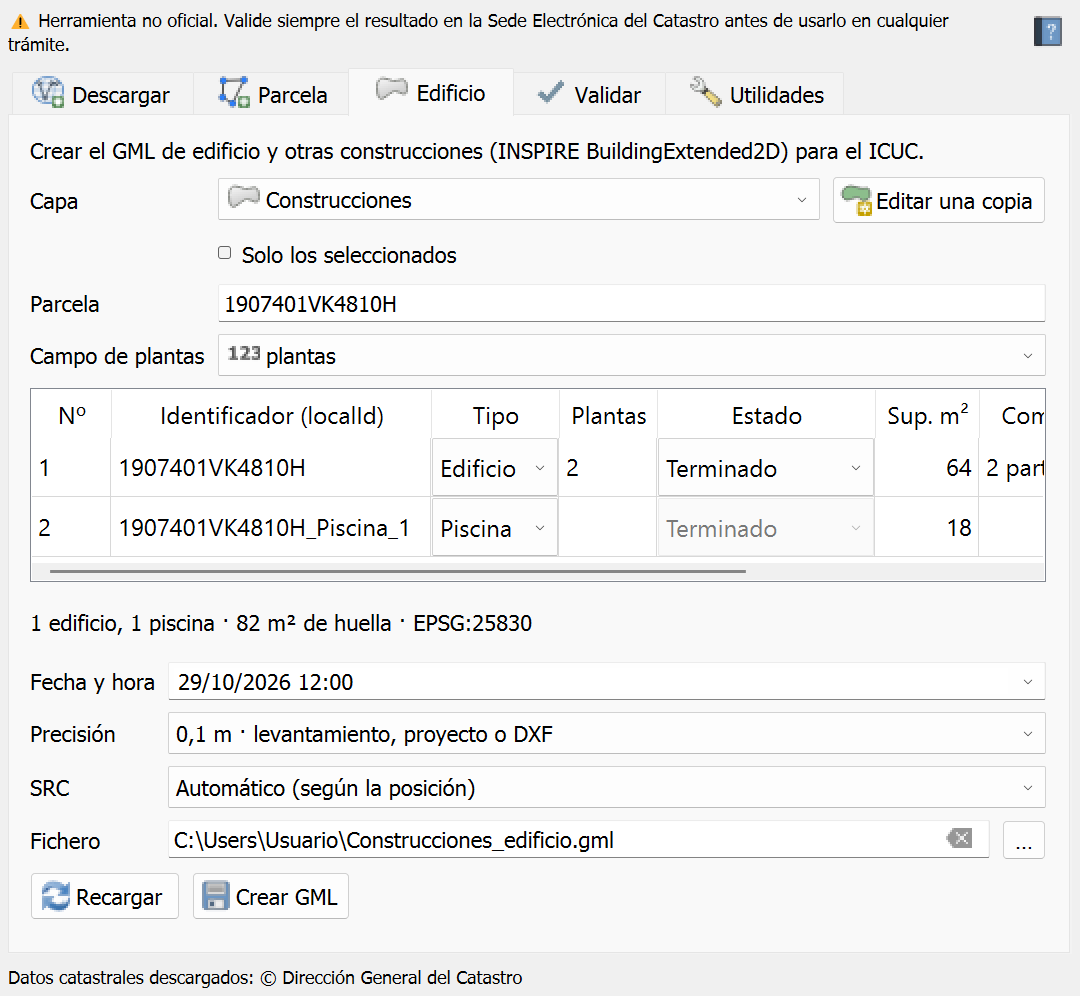
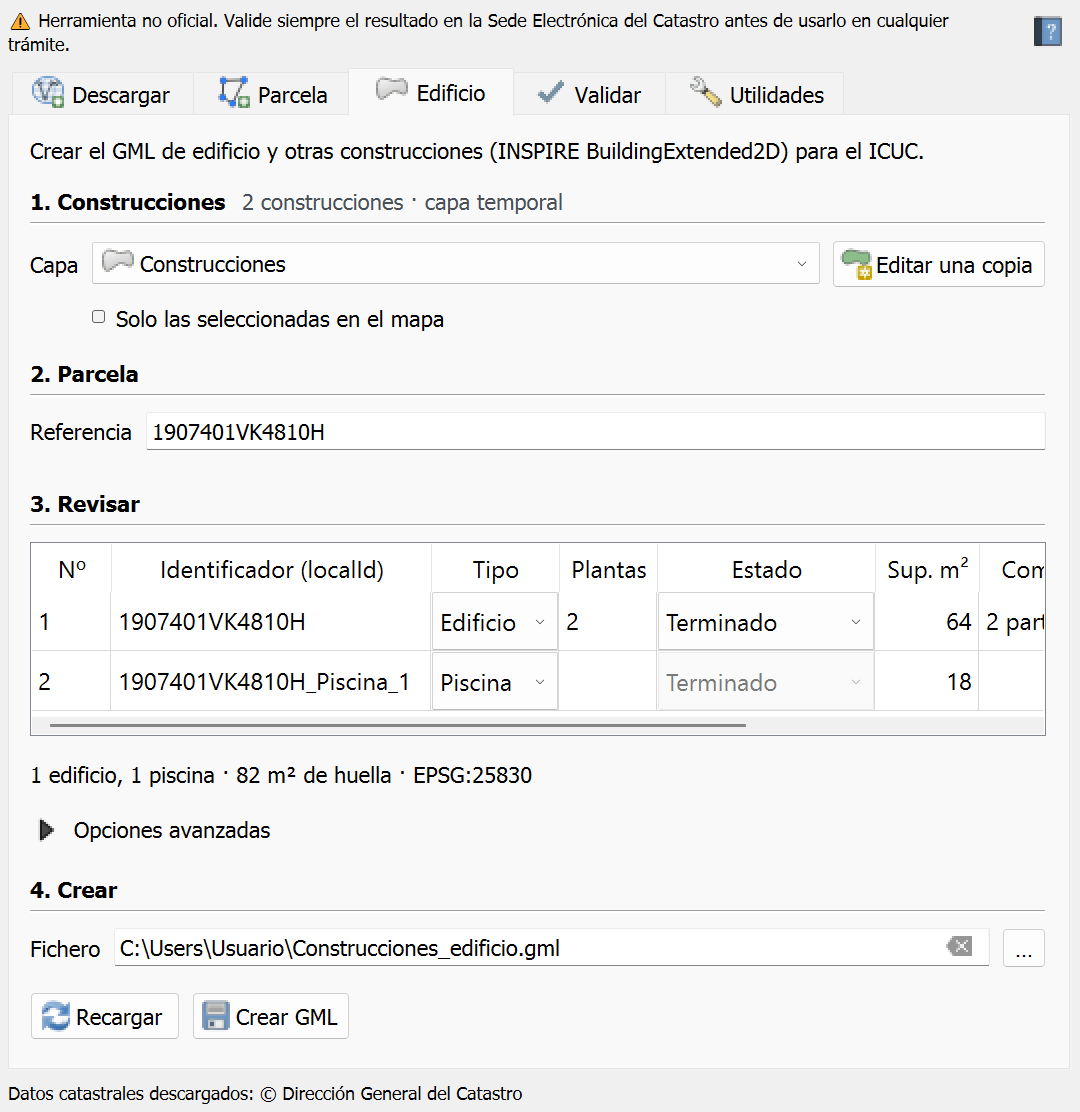
Usabilidad: pestaña Edificio por pasos (U-08) y fin de la revisión de usabilidad
1. Construcciones (con recuento, capa temporal y cambios sin guardar), 2. Parcela, 3. Revisar, 4. Crear; campo de plantas, fecha, precisión y SRC en Opciones avanzadas plegadas. U-09 confirmado. Captura de Edificio rehecha.

Claude-Session: https://claude.ai/code/session_01KsmgE6bxdpbGHsdP3uadVg

diff --git a/help/index.html b/help/index.html
@@ -180,9 +180,10 @@ gráficas» de la Sede Electrónica del Catastro (el plugin no envía nada: el f
 
 <h2 id="edificio">Crear el GML de edificio (ICUC)</h2>
 <p>El GML de edificio sirve para el Informe Catastral de Ubicación de las Construcciones (ICUC). En la pestaña
-<strong>Edificio</strong> elija la capa con la <strong>huella</strong> de cada construcción (el contorno a nivel del suelo,
+<strong>Edificio</strong>, que va por pasos como Parcela (1. Construcciones, 2. Parcela, 3. Revisar, 4. Crear), elija
+la capa con la <strong>huella</strong> de cada construcción (el contorno a nivel del suelo,
 sin vuelos, terrazas ni balcones). Tras descargar una parcela con sus construcciones, la capa «Construcciones» pasa sola a
-esta pestaña. Escriba la referencia catastral de la parcela (o, si aún no existe, su identificador en la escritura): los
+esta pestaña. En «2. Parcela» escriba la referencia catastral de la parcela (o, si aún no existe, su identificador en la escritura): los
 identificadores se proponen como pide la Dirección General del Catastro, la referencia si hay un solo edificio y
 <code>RC_Edificio_1</code>, <code>RC_Edificio_2</code>… si hay varios; las piscinas, <code>RC_Piscina_1</code>…</p>
 <figure><img src="img/edificio.png" class="panel" alt="Pestaña Edificio con las construcciones de la parcela descargada."><figcaption>Pestaña Edificio con las construcciones de la parcela descargada.</figcaption></figure>
@@ -201,13 +202,16 @@ plantas. La tabla se actualiza sola. No elija la capa de la parcela: sus polígo
   es una huella; las abiertas (cotas, ejes…) no se usan y se avisa de cuántas hay. Si la capa de dibujo se llama algo
   como «PISCINA», esas huellas se proponen como piscinas. Un DXF no guarda el SRC: si QGIS lo abre en uno que no encaja
   con las coordenadas, el panel lo avisa y hay que asignarle el correcto (p. ej. EPSG:25830) en sus propiedades. Para
-  quedarse solo con algunas líneas, selecciónelas y marque «Solo los seleccionados», o pulse
+  quedarse solo con algunas líneas, selecciónelas y marque «Solo las seleccionadas», o pulse
   <strong>Editar una copia</strong>.</li>
 </ul>
 <p>En la tabla puede cambiar el <strong>tipo</strong> (edificio o piscina), las <strong>plantas sobre rasante</strong> (la
 máxima si varía; son obligatorias en los edificios) y el identificador. Un edificio puede tener varias partes (toda su huella); cada piscina, una sola.
 Cada edificio lleva su <strong>estado</strong> en la tabla (terminado, en construcción, proyectado…; las piscinas no lo
-llevan). Elija la fecha, el SRC y el fichero, y pulse <strong>Crear GML</strong>. El fichero se escribe en ISO-8859-1, como el ejemplo oficial.</p>
+llevan). En «4. Crear» elija el fichero y pulse <strong>Crear GML</strong>. El campo de plantas de la capa, la fecha, la
+<strong>precisión</strong> de las huellas (0,1 m si salen de un levantamiento, del proyecto o de un DXF; 10 m si se han
+medido sobre la ortofoto) y el SRC están en <strong>Opciones avanzadas</strong>, plegadas: casi siempre valen los
+automáticos. El fichero se escribe en ISO-8859-1, como el ejemplo oficial.</p>
 <p>Con el botón <strong>Validar</strong> del resultado se abre en la pestaña Validar. Allí, <strong>Comparar con el
 Catastro</strong> sitúa cada construcción respecto a la parcela catastral vigente, como el ICUC: entera dentro (informe
 positivo), en parte fuera (informe negativo: el ICUC exige que esté «en su integridad» dentro de la parcela, sin

diff --git a/gui/pestana_edificio.py b/gui/pestana_edificio.py
@@ -2,8 +2,9 @@
 Pestaña «Edificio»: crea el GML de edificio (modelo simplificado de la DGC: edificios y piscinas) para el Informe
 Catastral de Ubicación de las Construcciones (ICUC), a partir de una capa con las huellas.
 
-Flujo: capa (dibujada o la «Construcciones» descargada) → referencia de la parcela → tabla con una fila por
-construcción (tipo y plantas) → estado, fecha, SRC y fichero → Crear GML. Los identificadores se proponen según el
+Por pasos (USABILIDAD U-08): 1. Construcciones (la capa dibujada o la «Construcciones» descargada) → 2. Parcela (su
+referencia) → 3. Revisar (tabla con una fila por construcción: tipo, plantas y estado) → 4. Crear (fichero); el campo de
+plantas, la fecha, la precisión y el SRC, en «Opciones avanzadas». Los identificadores se proponen según el
 formato de la DGC (RC, RC_Edificio_N, RC_Piscina_N) y se pueden cambiar en la tabla.
 
 copyright : (C) 2026 by Francisco Gómez Losada
@@ -14,7 +15,7 @@ import os
 import re
 
 from qgis.core import Qgis, QgsApplication, QgsCoordinateReferenceSystem, QgsProject
-from qgis.gui import QgsFieldComboBox, QgsFileWidget, QgsMapLayerComboBox
+from qgis.gui import QgsCollapsibleGroupBox, QgsFieldComboBox, QgsFileWidget, QgsMapLayerComboBox
 from qgis.PyQt import sip
 from qgis.PyQt.QtCore import QDateTime, Qt, QTime, QTimer
 from qgis.PyQt.QtWidgets import (
@@ -70,8 +71,15 @@ class PestanaEdificio(QWidget):
     # ------------------------------------------------------------------ Interfaz
 
     def construir(self):
+        """
+        Por pasos, como Parcela (USABILIDAD U-08): 1. Construcciones (capa o «Dibujar huellas») → 2. Parcela (su
+        referencia) → 3. Revisar (tabla) → 4. Crear; el campo de plantas, la fecha, la precisión y el SRC, en «Opciones
+        avanzadas», plegadas.
+        """
         principal = QVBoxLayout(self)
         principal.setContentsMargins(0, 0, 0, 0)
+        self.paso1 = desplazable.TituloPaso(1, "Construcciones", self)
+        principal.addWidget(self.paso1)
         formulario = QFormLayout()
 
         self.capaCombo = QgsMapLayerComboBox(self)
@@ -90,23 +98,22 @@ class PestanaEdificio(QWidget):
         fila_capa.addWidget(self.nuevaBoton)
         formulario.addRow("Capa", fila_capa)
 
-        self.soloSeleccion = QCheckBox("Solo los seleccionados", self)
-        self.soloSeleccion.setToolTip("Solo los elementos seleccionados en el mapa (o en la tabla de atributos) de la capa")
+        self.soloSeleccion = QCheckBox("Solo las seleccionadas en el mapa", self)
+        self.soloSeleccion.setToolTip("Solo las construcciones seleccionadas en el mapa (o en la tabla de atributos) de la capa")
         formulario.addRow("", self.soloSeleccion)
+        principal.addLayout(formulario)
 
+        principal.addWidget(desplazable.TituloPaso(2, "Parcela", self))
+        parcela = QFormLayout()
         self.referencia = QLineEdit(self)
         self.referencia.setPlaceholderText("Referencia catastral de la parcela (14 caracteres)")
         self.referencia.setToolTip("Referencia de la parcela donde están las construcciones: es la base de los "
                                    "identificadores (RC, RC_Edificio_1, RC_Piscina_1…).\nSi la parcela aún no existe en el "
                                    "Catastro, el identificador que tenga en la escritura")
-        formulario.addRow("Parcela", self.referencia)
+        parcela.addRow("Referencia", self.referencia)
+        principal.addLayout(parcela)
 
-        self.campoPlantas = QgsFieldComboBox(self)
-        self.campoPlantas.setAllowEmptyFieldName(True)
-        self.campoPlantas.setToolTip("Campo con el número de plantas sobre rasante (opcional; se puede escribir en la tabla)")
-        formulario.addRow("Campo de plantas", self.campoPlantas)
-        principal.addLayout(formulario)
-
+        principal.addWidget(desplazable.TituloPaso(3, "Revisar", self))
         self.tabla = desplazable.TablaFlexible(0, len(CABECERAS), self)
         self.tabla.setHorizontalHeaderLabels(CABECERAS)
         self.tabla.verticalHeader().setVisible(False)
@@ -125,7 +132,16 @@ class PestanaEdificio(QWidget):
         self.resumen.setWordWrap(True)
         principal.addWidget(self.resumen)
 
-        salida = QFormLayout()
+        #Opciones avanzadas (plegadas): casi siempre valen las automáticas
+        self.avanzadas = QgsCollapsibleGroupBox("Opciones avanzadas", self)
+        self.avanzadas.setSaveCollapsedState(False)
+        self.avanzadas.setToolTip("Campo de plantas, fecha y hora, precisión de las huellas y SRC del GML: casi siempre "
+                                  "valen los automáticos")
+        salida = QFormLayout(self.avanzadas)
+        self.campoPlantas = QgsFieldComboBox(self)
+        self.campoPlantas.setAllowEmptyFieldName(True)
+        self.campoPlantas.setToolTip("Campo con el número de plantas sobre rasante (opcional; se puede escribir en la tabla)")
+        salida.addRow("Campo de plantas", self.campoPlantas)
 
         ahora = QDateTime.currentDateTime()
         ahora.setTime(QTime(ahora.time().hour(), ahora.time().minute()))
@@ -148,7 +164,11 @@ class PestanaEdificio(QWidget):
                              (32628, 'WGS84 / UTM 28N (Canarias)')):
             self.srcCombo.addItem(f"EPSG:{epsg} · {nombre}", epsg)
         salida.addRow("SRC", self.srcCombo)
+        self.avanzadas.setCollapsed(True)
+        principal.addWidget(self.avanzadas)
 
+        principal.addWidget(desplazable.TituloPaso(4, "Crear", self))
+        salida = QFormLayout()
         self.destino = QgsFileWidget(self)
         self.destino.setStorageMode(QgsFileWidget.StorageMode.SaveFile)
         self.destino.setFilter("GML (*.gml)")
@@ -237,7 +257,36 @@ class PestanaEdificio(QWidget):
     def senales(self, capa):
         return [(capa.selectionChanged, self.seleccion_cambiada), (capa.featureAdded, self.capa_editada),
                 (capa.featuresDeleted, self.capa_editada), (capa.attributeValueChanged, self.capa_editada),
-                (capa.geometryChanged, self.capa_editada), (capa.afterRollBack, self.capa_editada)]
+                (capa.geometryChanged, self.capa_editada), (capa.afterRollBack, self.capa_editada),
+                (capa.afterCommitChanges, self.capa_editada), (capa.layerModified, self.capa_modificada)]
+
+    def capa_modificada(self, *args):
+        if not sip.isdeleted(self):
+            self.actualizar_paso1()
+
+    def actualizar_paso1(self):
+        """Junto a «1. Construcciones»: cuántas, si la capa es temporal y si tiene cambios sin guardar (U-04, U-08)."""
+        capa = self.capa()
+        if capa is None:
+            self.paso1.poner_estado("elija la capa o pulse «Dibujar huellas»", '#495057')
+            self.paso1.estado.setToolTip('')
+            return
+        total, sel = capa.featureCount(), capa.selectedFeatureCount()
+        if self.soloSeleccion.isChecked():
+            self.paso1.poner_estado(f"{miles(sel)} de {miles(total)} seleccionada{'' if sel == 1 else 's'}")
+        else:
+            self.paso1.poner_estado(f"{miles(len(self.filas))} construcci{'ón' if len(self.filas) == 1 else 'ones'}",
+                                    '#495057')
+        texto, ayuda = self.paso1.estado.text(), []
+        if capa.providerType() == 'memory':
+            texto += " <span style='color:#495057'>· capa temporal</span>"
+            ayuda.append("Capa temporal (en memoria): se pierde al cerrar QGIS si no la guarda. El GML que se sube a la "
+                         "Sede es el fichero que cree en «4. Crear», no esta capa")
+        if capa.isModified():
+            texto += " <span style='color:#e67700'>· con cambios sin guardar</span>"
+            ayuda.append("La capa está en edición con cambios sin guardar, y el GML los incluye")
+        self.paso1.estado.setText(texto)
+        self.paso1.estado.setToolTip("\n".join(ayuda))
 
     def capa_editada(self, *args):
         """Al editar la capa (dibujar, mover vértices…) se recarga la tabla conservando lo escrito en ella (AU-17)."""
@@ -254,8 +303,12 @@ class PestanaEdificio(QWidget):
         return valores
 
     def seleccion_cambiada(self, *args):
-        if not sip.isdeleted(self) and self.soloSeleccion.isChecked():
+        if sip.isdeleted(self):
+            return
+        if self.soloSeleccion.isChecked():
             self.recargar()
+        else:
+            self.actualizar_paso1()
 
     def recargar(self, *args, conservar=False):
         anteriores = self.valores_tabla() if conservar else {}
@@ -324,6 +377,7 @@ class PestanaEdificio(QWidget):
         self.tabla.resizeColumnsToContents()
         self.tabla.setColumnWidth(COL_ID, max(self.tabla.columnWidth(COL_ID), 160))
         self.actualizar_superficies()
+        self.actualizar_paso1()
 
     def tipo_fila(self, i):
         combo = self.tabla.cellWidget(i, COL_TIPO)
@@ -380,7 +434,7 @@ class PestanaEdificio(QWidget):
                          "la capa «Construcciones» de la descarga o pulse «Dibujar huellas».</span>")
             elif self.demasiadas:
                 texto = (f"<i>Demasiadas construcciones: seleccione en el mapa las de la parcela (máximo {MAX_FILAS}) y "
-                         "marque «Solo los seleccionados».</i>")
+                         "marque «Solo las seleccionadas».</i>")
             else:
                 texto = ("<i>La capa no tiene polígonos (o no hay ninguno seleccionado). Dibuje la huella de cada "
                          "construcción con la herramienta de añadir polígono.</i>")

diff --git a/core/geometria.py b/core/geometria.py
@@ -178,8 +178,7 @@ def preparar(geometria, elemento='', area_entera=True):
                                                  "SRC de la capa (revíselo en sus propiedades, pestaña Fuente)", elemento)]
     if geometria.isNull() or geometria.isEmpty():
         return [], [Incidencia(ERROR, 'GEO-VACIA', "No tiene geometría (un elemento vacío de la capa): bórrelo, o "
-                                                   "seleccione los demás y marque «Solo las seleccionadas» (en Edificio, «Solo los "
-                                                   "seleccionados»)",
+                                                   "seleccione los demás y marque «Solo las seleccionadas»",
                                elemento)]
     if not finita(geometria):
         return [], [Incidencia(ERROR, 'GEO-SRC', "Coordenadas no válidas (infinitas): revise el SRC de la capa", elemento)]

diff --git a/docs/USABILIDAD.md b/docs/USABILIDAD.md
@@ -1,4 +1,4 @@
-# Revisión de usabilidad (en curso)
+# Revisión de usabilidad (hecha el 29/10/2026; se reabre con lo que salga en las pruebas a mano)
 
 Lista de lo que confunde o complica el uso, recogida en las pruebas a mano. Se resolverá en la **fase de revisión de
 usabilidad**, cuando estén terminadas todas las funciones y el manual con capturas reales: así se puede reorganizar el
@@ -13,5 +13,5 @@ panel de una vez, viéndolo entero, en lugar de parchearlo pieza a pieza.
 | U-05 | Validar | Textos largos en la lista de incidencias | Texto corto en la lista y explicación completa al pasar el ratón o en el informe — ✅ 27/10/2026: las de más de 150 caracteres acaban en «… ▸» y se leen enteras al elegirlas o al pasar el ratón; la identidad gráfica empieza por el veredicto |
 | U-06 | Descargar | Los grupos «Catastro <RC>» se acumulan en el proyecto | Opción de sustituir la descarga anterior o agrupar todas bajo «Catastral GML Tools» — ✅ 27/10/2026: todas dentro de «Descargas del Catastro», la última arriba y abierta, las anteriores plegadas (repetir una referencia sigue sustituyendo su grupo) |
 | U-07 | General | No hay un recorrido guiado del trabajo habitual (descargar → dividir o unir → crear GML → validar → Sede) | Sección «Flujo de trabajo» al principio del manual y, quizá, en la cabecera del panel — ✅ 28/10/2026: la ayuda empieza por «Flujo de trabajo: de la referencia catastral a la Sede» (tabla de cinco pasos con la pestaña, qué hacer, el botón que lleva al siguiente y enlaces a cada sección); cada mensaje final ya llevaba el botón del paso siguiente y Validar, sin errores y con el XSD comprobado, añade «Abrir la Sede» (página de Validaciones gráficas). Sin línea fija en la cabecera: con los botones de cada mensaje basta y no resta sitio |
-| U-08 | Edificio | La pestaña admitía cualquier capa de polígonos (se eligió la de la parcela como si fuera la huella) y, si la parcela no tiene construcciones en el Catastro, no quedaba claro qué hacer | Parche del 09/10/2026: se rechazan las capas de parcelas y el botón «Dibujar huellas» crea la capa y activa el dibujo. En la revisión: quizá un asistente «1 parcela → 2 huellas → 3 crear» |
-| U-09 | General | Seis pestañas en un panel estrecho; «Dividir» como pestaña aparte, lejos de «Unir seleccionadas» | **Decidido el 14/10/2026 (provisional, se revisará al probarlo):** Dividir pasa a la pestaña Parcela, junto a «Unir seleccionadas», en un bloque plegable «Dividir la parcela seleccionada» que alimenta el asistente (segregación o división, nombres y matriz). Pestañas en el orden del trabajo: Descargar → Parcela → Edificio → Validar → Utilidades. No va a Utilidades porque allí se trabaja con ficheros GML ya hechos y la división es un paso del trabajo principal |
+| U-08 | Edificio | La pestaña admitía cualquier capa de polígonos (se eligió la de la parcela como si fuera la huella) y, si la parcela no tiene construcciones en el Catastro, no quedaba claro qué hacer | Parche del 09/10/2026: se rechazan las capas de parcelas y el botón «Dibujar huellas» crea la capa y activa el dibujo. En la revisión: quizá un asistente «1 parcela → 2 huellas → 3 crear» — ✅ 29/10/2026: por pasos como Parcela (1. Construcciones con «Dibujar huellas» y el recuento junto al título, 2. Parcela, 3. Revisar, 4. Crear) y opciones avanzadas plegadas (campo de plantas, fecha, precisión, SRC) |
+| U-09 | General | Seis pestañas en un panel estrecho; «Dividir» como pestaña aparte, lejos de «Unir seleccionadas» | **Decidido el 14/10/2026 (provisional, se revisará al probarlo):** Dividir pasa a la pestaña Parcela, junto a «Unir seleccionadas», en un bloque plegable «Dividir la parcela seleccionada» que alimenta el asistente (segregación o división, nombres y matriz). Pestañas en el orden del trabajo: Descargar → Parcela → Edificio → Validar → Utilidades. No va a Utilidades porque allí se trabaja con ficheros GML ya hechos y la división es un paso del trabajo principal — ✅ 29/10/2026: confirmado tras las pruebas a mano: cinco pestañas en el orden del trabajo; «Dividir parcela» junto a «Unir parcelas» en el paso 2 de Parcela |

diff --git a/CHANGELOG.md b/CHANGELOG.md
@@ -18,6 +18,8 @@ Formato basado en [Keep a Changelog](https://keepachangelog.com/es-ES/1.1.0/). V
   - U-04: **capas temporales frente al fichero GML**. Junto a «1. Parcelas» se dice si la capa es temporal («capa temporal», en memoria) o la vista de un GML de Validar («vista de fichero.gml»), con la explicación al pasar el ratón (el GML de la Sede es el fichero de «4. Crear»), y en naranja «con cambios sin guardar» mientras tenga ediciones sin guardar, que el GML incluye (prueba a mano del 28/10/2026: una unión de una prueba anterior acabó en el GML). El grupo de las descargas se llama «Descargas del Catastro (temporales)» (el de un proyecto guardado con el nombre anterior se renombra). La ayuda lo explica en «Descargar una parcela»;
   - los mensajes finales (fondo verde) usan todo el ancho de la barra: el icono dejaba un hueco a su izquierda y el texto y los botones quedaban apretados a la derecha (prueba a mano del 29/10/2026);
   - capturas de la ayuda a doble resolución y ajustadas a lo que importa: las tablas y listas, al alto de sus filas, sin los cuadros en blanco; el panel se ve algo más grande que en QGIS (680 px de ancho) para que se lea, y en los mapas los rótulos tienen su tamaño normal (salían diminutos) (pruebas a mano del 29/10/2026);
+  - U-08: la pestaña **Edificio por pasos**, como Parcela: «1. Construcciones» (capa o «Dibujar huellas», con el recuento, «capa temporal» y «con cambios sin guardar» junto al título) → «2. Parcela» (referencia) → «3. Revisar» (tabla) → «4. Crear» (fichero); el campo de plantas, la fecha, la precisión y el SRC, en «Opciones avanzadas» plegadas. «Solo las seleccionadas en el mapa», como en Parcela. Casos en `parcela_pasos_test.py`;
+  - U-09: queda resuelto con lo hecho (cinco pestañas en el orden del trabajo y «Dividir parcela» dentro de Parcela, junto a «Unir parcelas»);
   - con un GML igual al Catastro, la barra de Validar dice «2 avisos · igual al Catastro vigente» en vez de «2 avisos · ninguna», que no se entendía (prueba a mano del 28/10/2026).
   - las capas «Identidad gráfica» del mapa llevan atributos (parcela catastral, cartografía, margen, separación máxima, superficies, diferencia, si cumpliría y la nota de simulación no oficial; en «fuera del margen», tramos, longitud y el punto que más se separa): se entienden al consultarlas con «Identificar objetos» y se guardan con sus datos (probado en GeoPackage).
 - **Panel más limpio** (prueba a mano del 27/10/2026):

diff --git a/docs/PLAN_PRUEBAS.md b/docs/PLAN_PRUEBAS.md
@@ -39,7 +39,7 @@ Cada batería recorre las categorías que le apliquen:
 | Validar: comparación con el Catastro | `comparacion_casos_test.py` (44 casos) | ✅ 19/10/2026: una RC inexistente en un GML de edificio decía «no se ha podido comparar»; si la red caía a mitad, una referencia se daba por inexistente; con geometría inválida, GEOS fallaba por dentro |
 | Parcela: crear GML desde una capa y asistente de alteraciones | `parcela_casos_test.py` (25 capas + interacción) | ✅ 19/10/2026: quitar la capa en uso pasaba a otra sin avisar; mensajes de astilla y de elemento sin geometría que no se entendían; más de 30 parcelas sin aviso al crear |
 | Parcela: dividir y unir seleccionadas | `division_casos_test.py` (9 formas × modos × valores × lados: 1404 divisiones; unión con rendijas, huecos y patios) | ✅ 19/10/2026 |
-| Parcela por pasos (U-01/U-02): pasos, opciones avanzadas, «Unir parcelas» y «Dividir parcela ▸», solo las seleccionadas | `parcela_pasos_test.py` (8 casos) | ✅ 28/10/2026 |
+| Parcela y Edificio por pasos (U-01/U-02/U-04/U-08): pasos, opciones avanzadas, «Unir parcelas» y «Dividir parcela ▸», solo las seleccionadas, capa temporal, vista del GML y cambios sin guardar | `parcela_pasos_test.py` (11 casos) | ✅ 29/10/2026 |
 | Edificio: GML de construcciones (ICUC) | `edificio_casos_test.py` (20 capas + sin referencia) | ✅ 19/10/2026 |
 | Descargar: por referencia y en el mapa | `descargar_casos_test.py` (22 casos + pestaña) | ✅ 19/10/2026: una RC inexistente decía «…no se ha encontrado la parcela X para el huso 25830» (el huso confundía) |
 | Utilidades «1. Unir ficheros GML» | `unir_casos_test.py` | ✅ |

diff --git a/CLAUDE.md b/CLAUDE.md
@@ -51,6 +51,7 @@ Detalle del plan en `docs/DESARROLLO.md`; pendientes de usabilidad en `docs/USAB
 - Hecho el 28/10: punto 2, **Parcela por pasos (U-01/U-02)** (`parcela_pasos_test.py`). Esperando la prueba a mano.
 - Hecho el 28/10: punto 3, **flujo guiado (U-07)**: ayuda con tabla de pasos y botón «Abrir la Sede» en Validar.
 - U-04 hecho el 29/10 (capas temporales, vista del GML y cambios sin guardar junto a «1. Parcelas»).
-- Quedan de usabilidad: U-08 (Edificio), U-09 (pestañas).
+- Revisión de usabilidad terminada el 29/10 (U-08 Edificio por pasos; U-09 confirmado). Lo siguiente: campaña de
+  pruebas a mano y lo que salga de ella; luego AU-56/AU-54 cuando haya datos.
 - En espera: AU-56 (IVG con XML adjunto, falta un PDF real), AU-54 (división con pivote y puntos de apoyo),
   «doble GML» (ninguna fuente oficial; preguntar al COAM), campaña de pruebas a mano.
